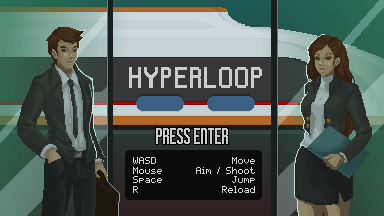
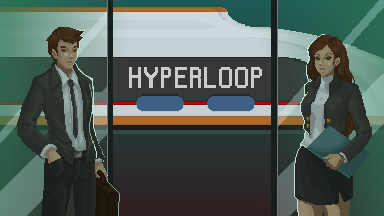
update title screen

Changed region(s): [[0.3125, 0.5833, 0.6875, 0.9444]]

diff --git a/src/main/scenes/TitleScene.ts b/src/main/scenes/TitleScene.ts
@@ -9,17 +9,23 @@ import { ControllerEvent } from "../../engine/input/ControllerEvent";
 import { FadeToBlackTransition } from "../../engine/transitions/FadeToBlackTransition";
 import { MusicManager } from "../MusicManager";
 import { FadeTransition } from "../../engine/transitions/FadeTransition";
+import { GAME_HEIGHT, GAME_WIDTH } from '../constants';
 
 export class TitleScene extends Scene<Hyperloop> {
     @asset("images/title-image.png")
     private static titleImage: HTMLImageElement;
 
+    @asset("images/start-overlay.png")
+    private static overlayImage: HTMLImageElement;
+
     private imageNode: ImageNode = new ImageNode({ image: TitleScene.titleImage, anchor: Direction.TOP_LEFT});
+    private overlayImageNode: ImageNode = new ImageNode({ image: TitleScene.overlayImage, anchor: Direction.BOTTOM});
 
     public setup() {
         this.inTransition = new FadeTransition();
         this.outTransition = new FadeToBlackTransition({ duration: 0.5, exclusive: true });
         this.imageNode.appendTo(this.rootNode);
+        this.overlayImageNode.moveTo(GAME_WIDTH / 2, GAME_HEIGHT - 20).appendTo(this.rootNode);
 
         MusicManager.getInstance().loopTrack(0);
     }
